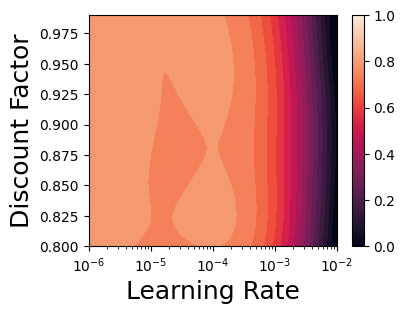
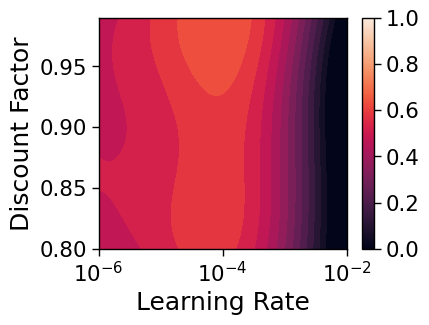
wip:

diff --git a/evaluate.md b/evaluate.md
@@ -527,7 +527,7 @@ from src.gcrl_landscapes.util.eval import fit_model
 from src.gcrl_landscapes.configurations import get_bounds, sobol_codomain_to_hp
 from gcrl_landscapes.plots.triple_gp import create_contour_plot
 from gcrl_landscapes.evaluation.common import map_labels
-agent_name = "qrl"
+agent_name = "crl"
 grid_length = 100
 
 fig, ax = plt.subplots()
@@ -574,7 +574,7 @@ print(len(point_df))
 x_lower, x_upper, x_log = get_bounds("lr", agent_name)
 y_lower, y_upper, y_log = get_bounds("discount", agent_name)
 # ax = sns.kdeplot(data=point_df[point_df["mean_normalized_goal_distance_return"] > 0.95], x="hp.lr", y="hp.discount", hue="phase_num", log_scale=(x_log, y_log), levels=10, bw_adjust=1, fill=True, alpha=0.4, palette="rocket")
-df = point_df[point_df["mean_normalized_goal_distance_return"] > 0.95]
+df = point_df[point_df["mean_normalized_goal_distance_return"] > 0.90]
 
 # ax = sns.kdeplot(
 #     data=df,
@@ -604,9 +604,21 @@ df = point_df[point_df["mean_normalized_goal_distance_return"] > 0.95]
 #     linewidths=2.0,
 #     ax=ax,
 # )
-fig, ax = plt.subplots(figsize=(12, 8))
+fig, ax = plt.subplots(figsize=(6, 4))
 
 palette = sns.color_palette("viridis", n_colors=df["phase_num"].nunique())
+
+sns.set_context(context="paper", font_scale=1.75)
+
+# plt.rcParams.update({
+#     "font.size": 20,          # base font size
+#     "axes.titlesize": 16,
+#     "axes.labelsize": 20,
+#     "xtick.labelsize": 20,
+#     "ytick.labelsize": 20,
+#     "legend.fontsize": 12,
+#     "figure.titlesize": 18,
+# })
 
 for i, phase in enumerate(sorted(df["phase_num"].unique())):
     phase_df = df[df["phase_num"] == phase]
@@ -650,22 +662,43 @@ for i, phase in enumerate(sorted(df["phase_num"].unique())):
     ax.text(centroid_x, centroid_y, str(phase), fontsize=11, fontweight='bold', 
             ha='center', va='center', color='white', zorder=101)
 
+# ax.set_xlabel("")
+# ax.set_ylabel("")
 ax.set_xlabel("Learning Rate", fontsize=14, fontweight='bold')
 ax.set_ylabel("Discount Factor", fontsize=14, fontweight='bold')
-ax.set_title("Evolution of Optimal Hyperparameter Regions Across Training Phases", 
-             fontsize=15, fontweight='bold', pad=20)
+# ax.set_title("Evolution of Optimal Hyperparameter Regions Across Training Phases", 
+#              fontsize=15, fontweight='bold', pad=20)
 
-ax.legend(title="Training Phase", title_fontsize=12, fontsize=11, 
-          loc="upper left", bbox_to_anchor=(1.02, 1), frameon=True, 
-          fancybox=True, shadow=True)
+# ax.legend(title="Training Phase", title_fontsize=12, fontsize=11, 
+#           loc="upper left", bbox_to_anchor=(1.02, 1), frameon=True, 
+#           fancybox=True, shadow=True)
+# Replace your current legend section with this:
 
-ax.grid(True, alpha=0.25, linestyle='--', linewidth=0.6)
-ax.set_facecolor('#fafafa')
-for i in range(len(centroids)-1):
-    ax.annotate('', xy=centroids[i+1], xytext=centroids[i],
-                arrowprops=dict(arrowstyle='->', lw=2.5, color='black', alpha=0.6,
-                               connectionstyle="arc3,rad=0.1"))
+# Create the legend
+# legend = plt.legend(
+#     handles = [1, 2, 3, 4],
+#     title="Training Phase", 
+#     title_fontsize=14,
+#     fontsize=12, 
+#     loc="center left", 
+#     bbox_to_anchor=(1.05, 0.5),  # Position to the right of the plot
+#     frameon=True,
+#     fancybox=True,
+#     shadow=True,
+#     borderpad=1.2,  # Padding inside legend box
+#     labelspacing=1.2,  # Space between legend entries
+#     handlelength=2.5,  # Length of the legend lines
+#     handleheight=1.5   # Height of the legend lines
+# )
 
+
+# ax.grid(True, alpha=0.25, linestyle='--', linewidth=0.6)
+# ax.set_facecolor('#fafafa')
+# for i in range(len(centroids)-1):
+#     ax.annotate('', xy=centroids[i+1], xytext=centroids[i],
+#                 arrowprops=dict(arrowstyle='->', lw=2.5, color='black', alpha=0.6,
+#                                connectionstyle="arc3,rad=0.1"))
+#
 
 #sns.move_legend(ax, "upper left", bbox_to_anchor=(1.02, 1), frameon=False, title="phase")
 ax.grid(True, alpha=0.15)
@@ -676,7 +709,8 @@ if x_log:
   ax.set_xscale("log", base=10)
 if y_log:
   ax.set_yscale("log", base=10)
-plt.savefig("test.png")
+plt.tight_layout()
+plt.savefig("test.png", dpi=600)
 plt.close()
 
 
